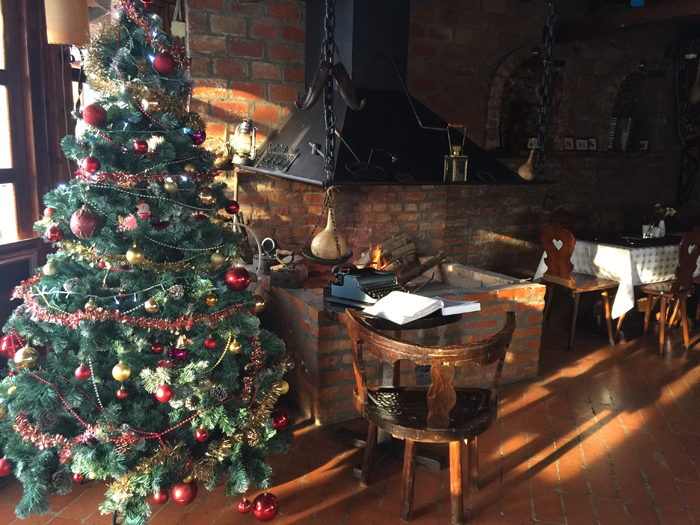
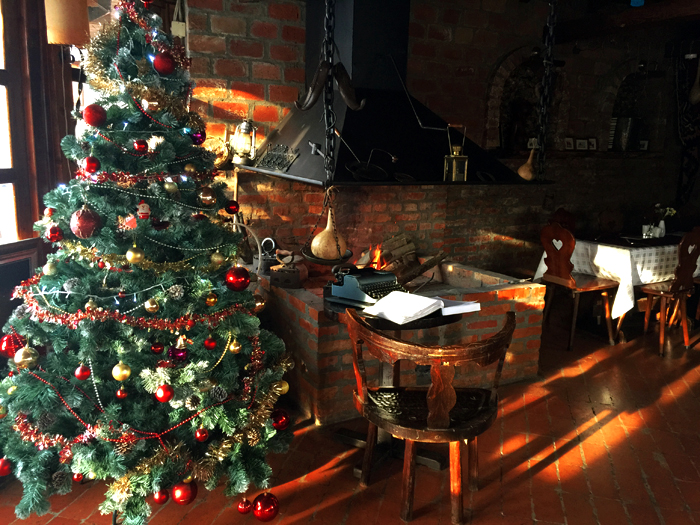
izmena

diff --git a/glavniRestoran.html b/glavniRestoran.html
@@ -65,7 +65,7 @@
                 <!-- SLIDE  -->
                 <li data-transition="fade">
                     <!-- MAIN IMAGE -->
-                    <img src="images/gallery/restorani/glavniRestoran/glavni.JPG" alt="Image" data-bgposition="center center" data-bgfit="cover" data-bgrepeat="no-repeat" data-bgparallax="5" class="rev-slidebg" data-no-retina>
+                    <img src="images/gallery/restorani/glavniRestoran/glavni.jpg" alt="Image" data-bgposition="center center" data-bgfit="cover" data-bgrepeat="no-repeat" data-bgparallax="5" class="rev-slidebg" data-no-retina>
                    
                     <!-- LAYER NR. 1 -->
                  
